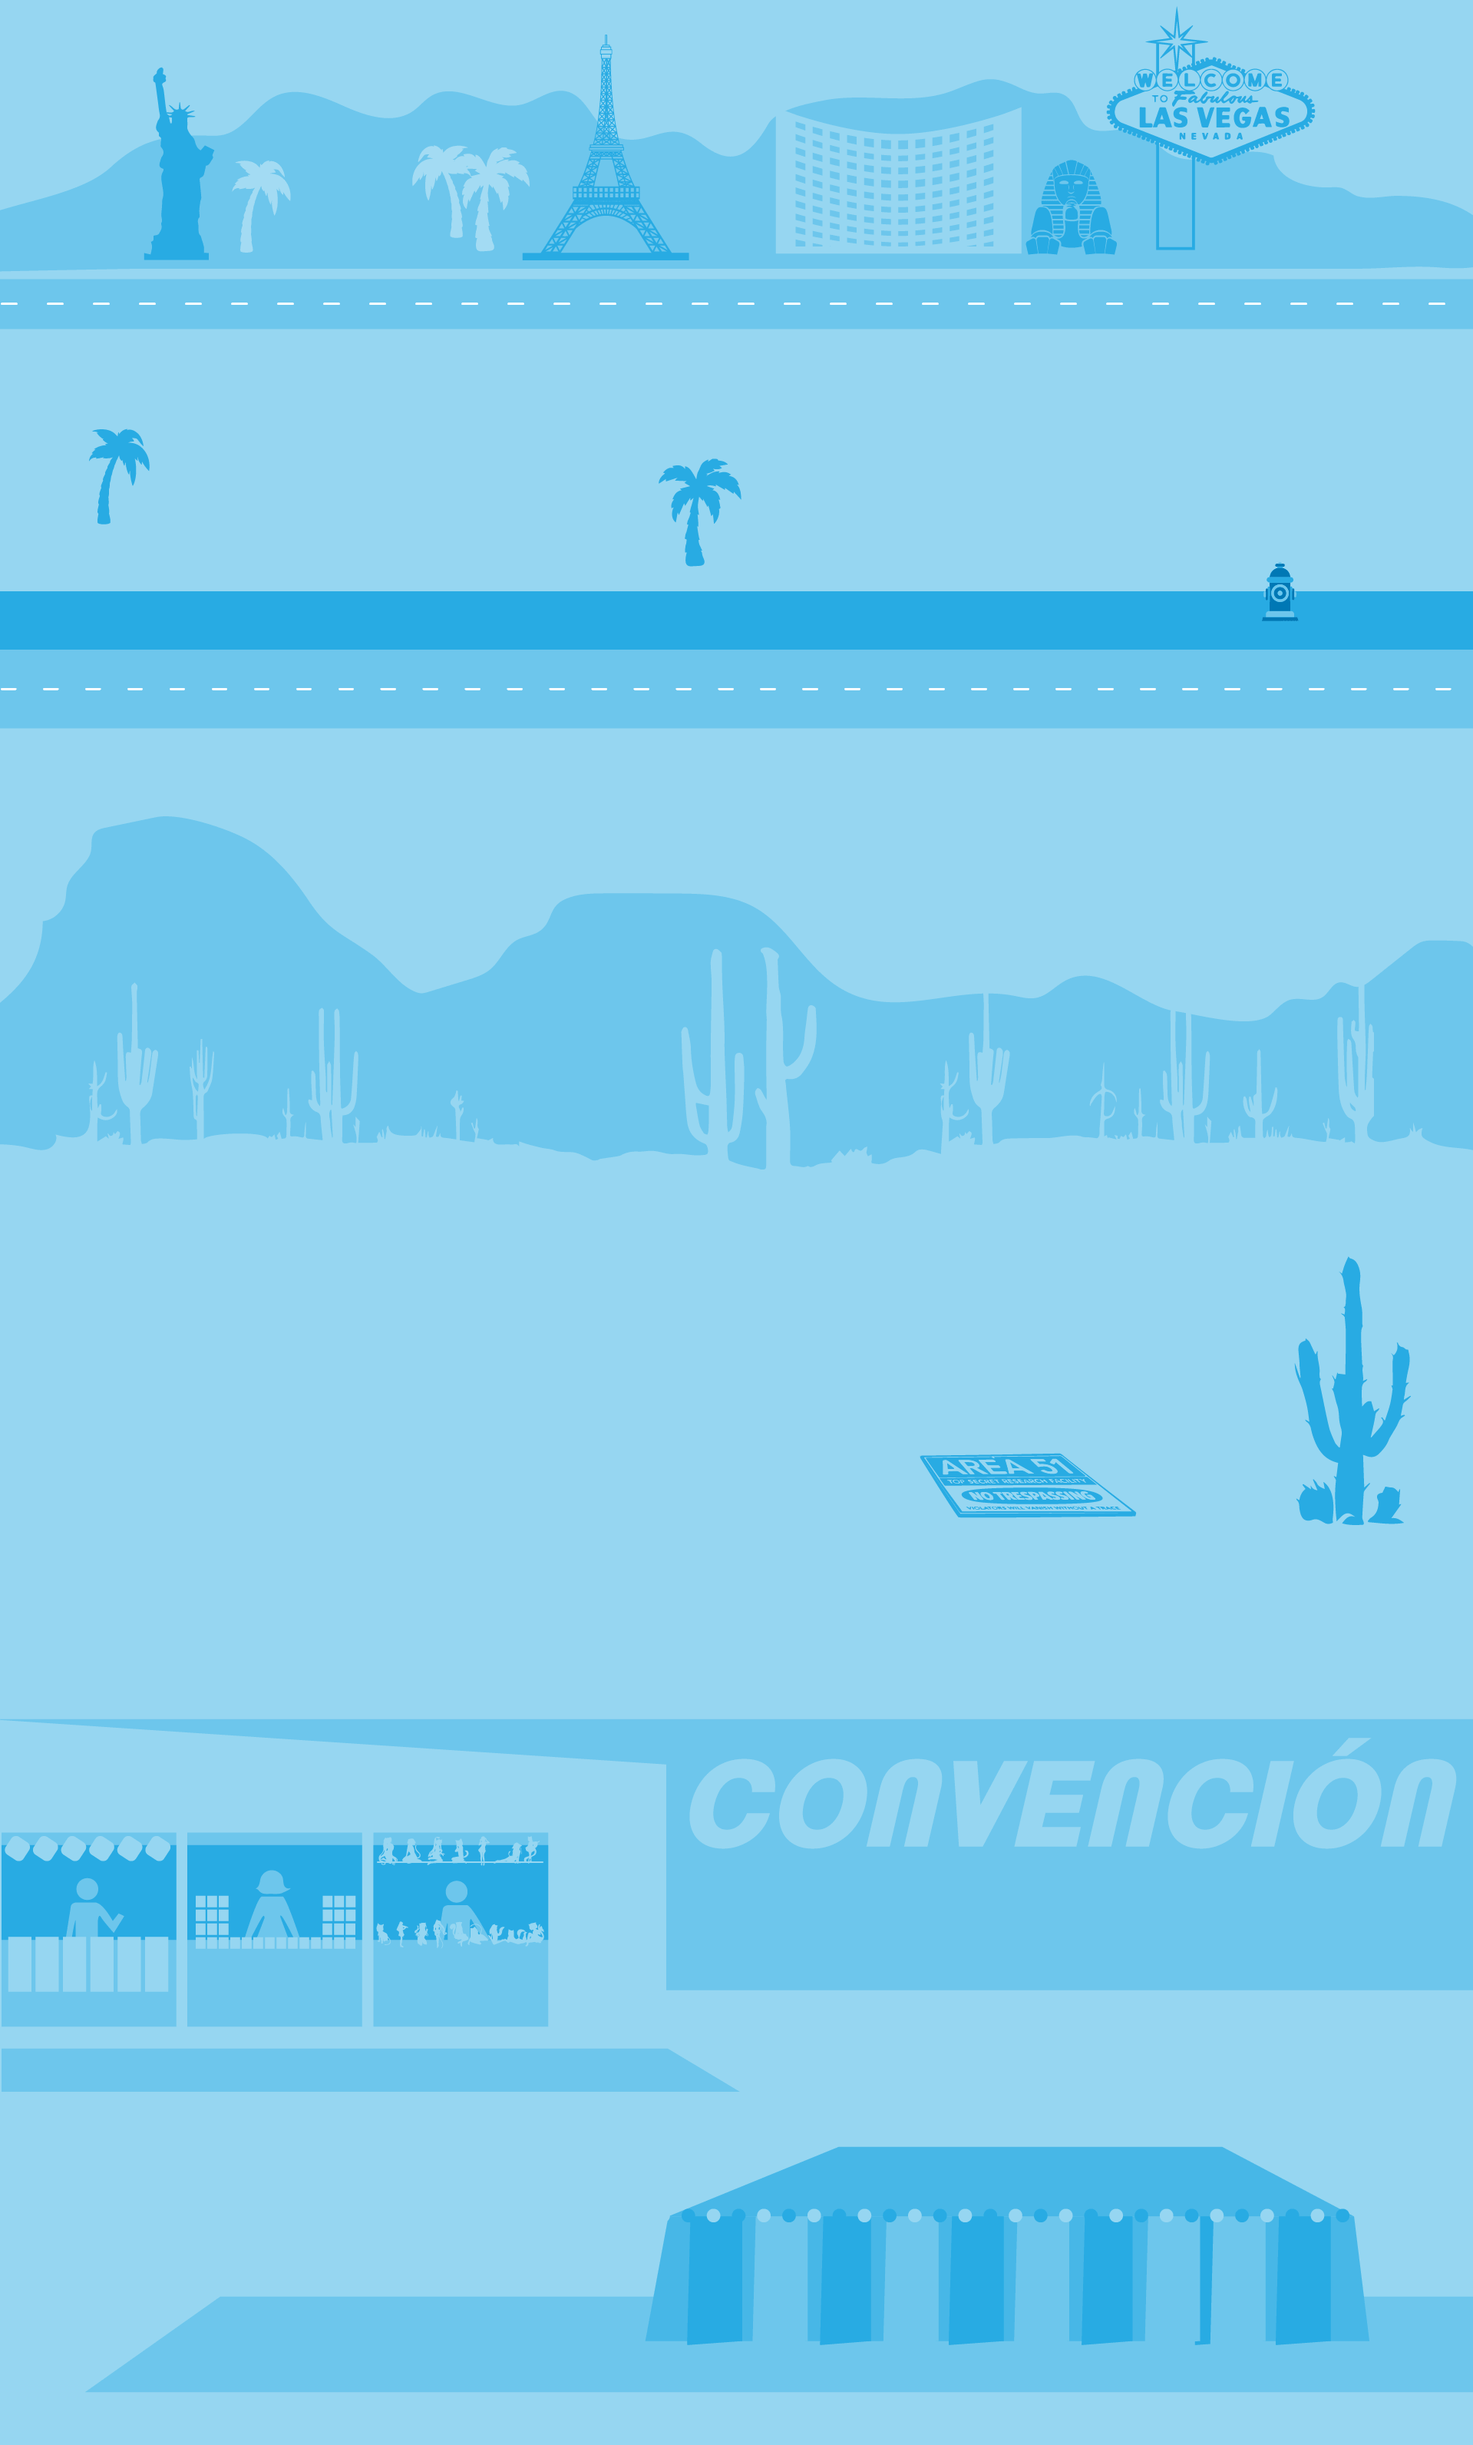
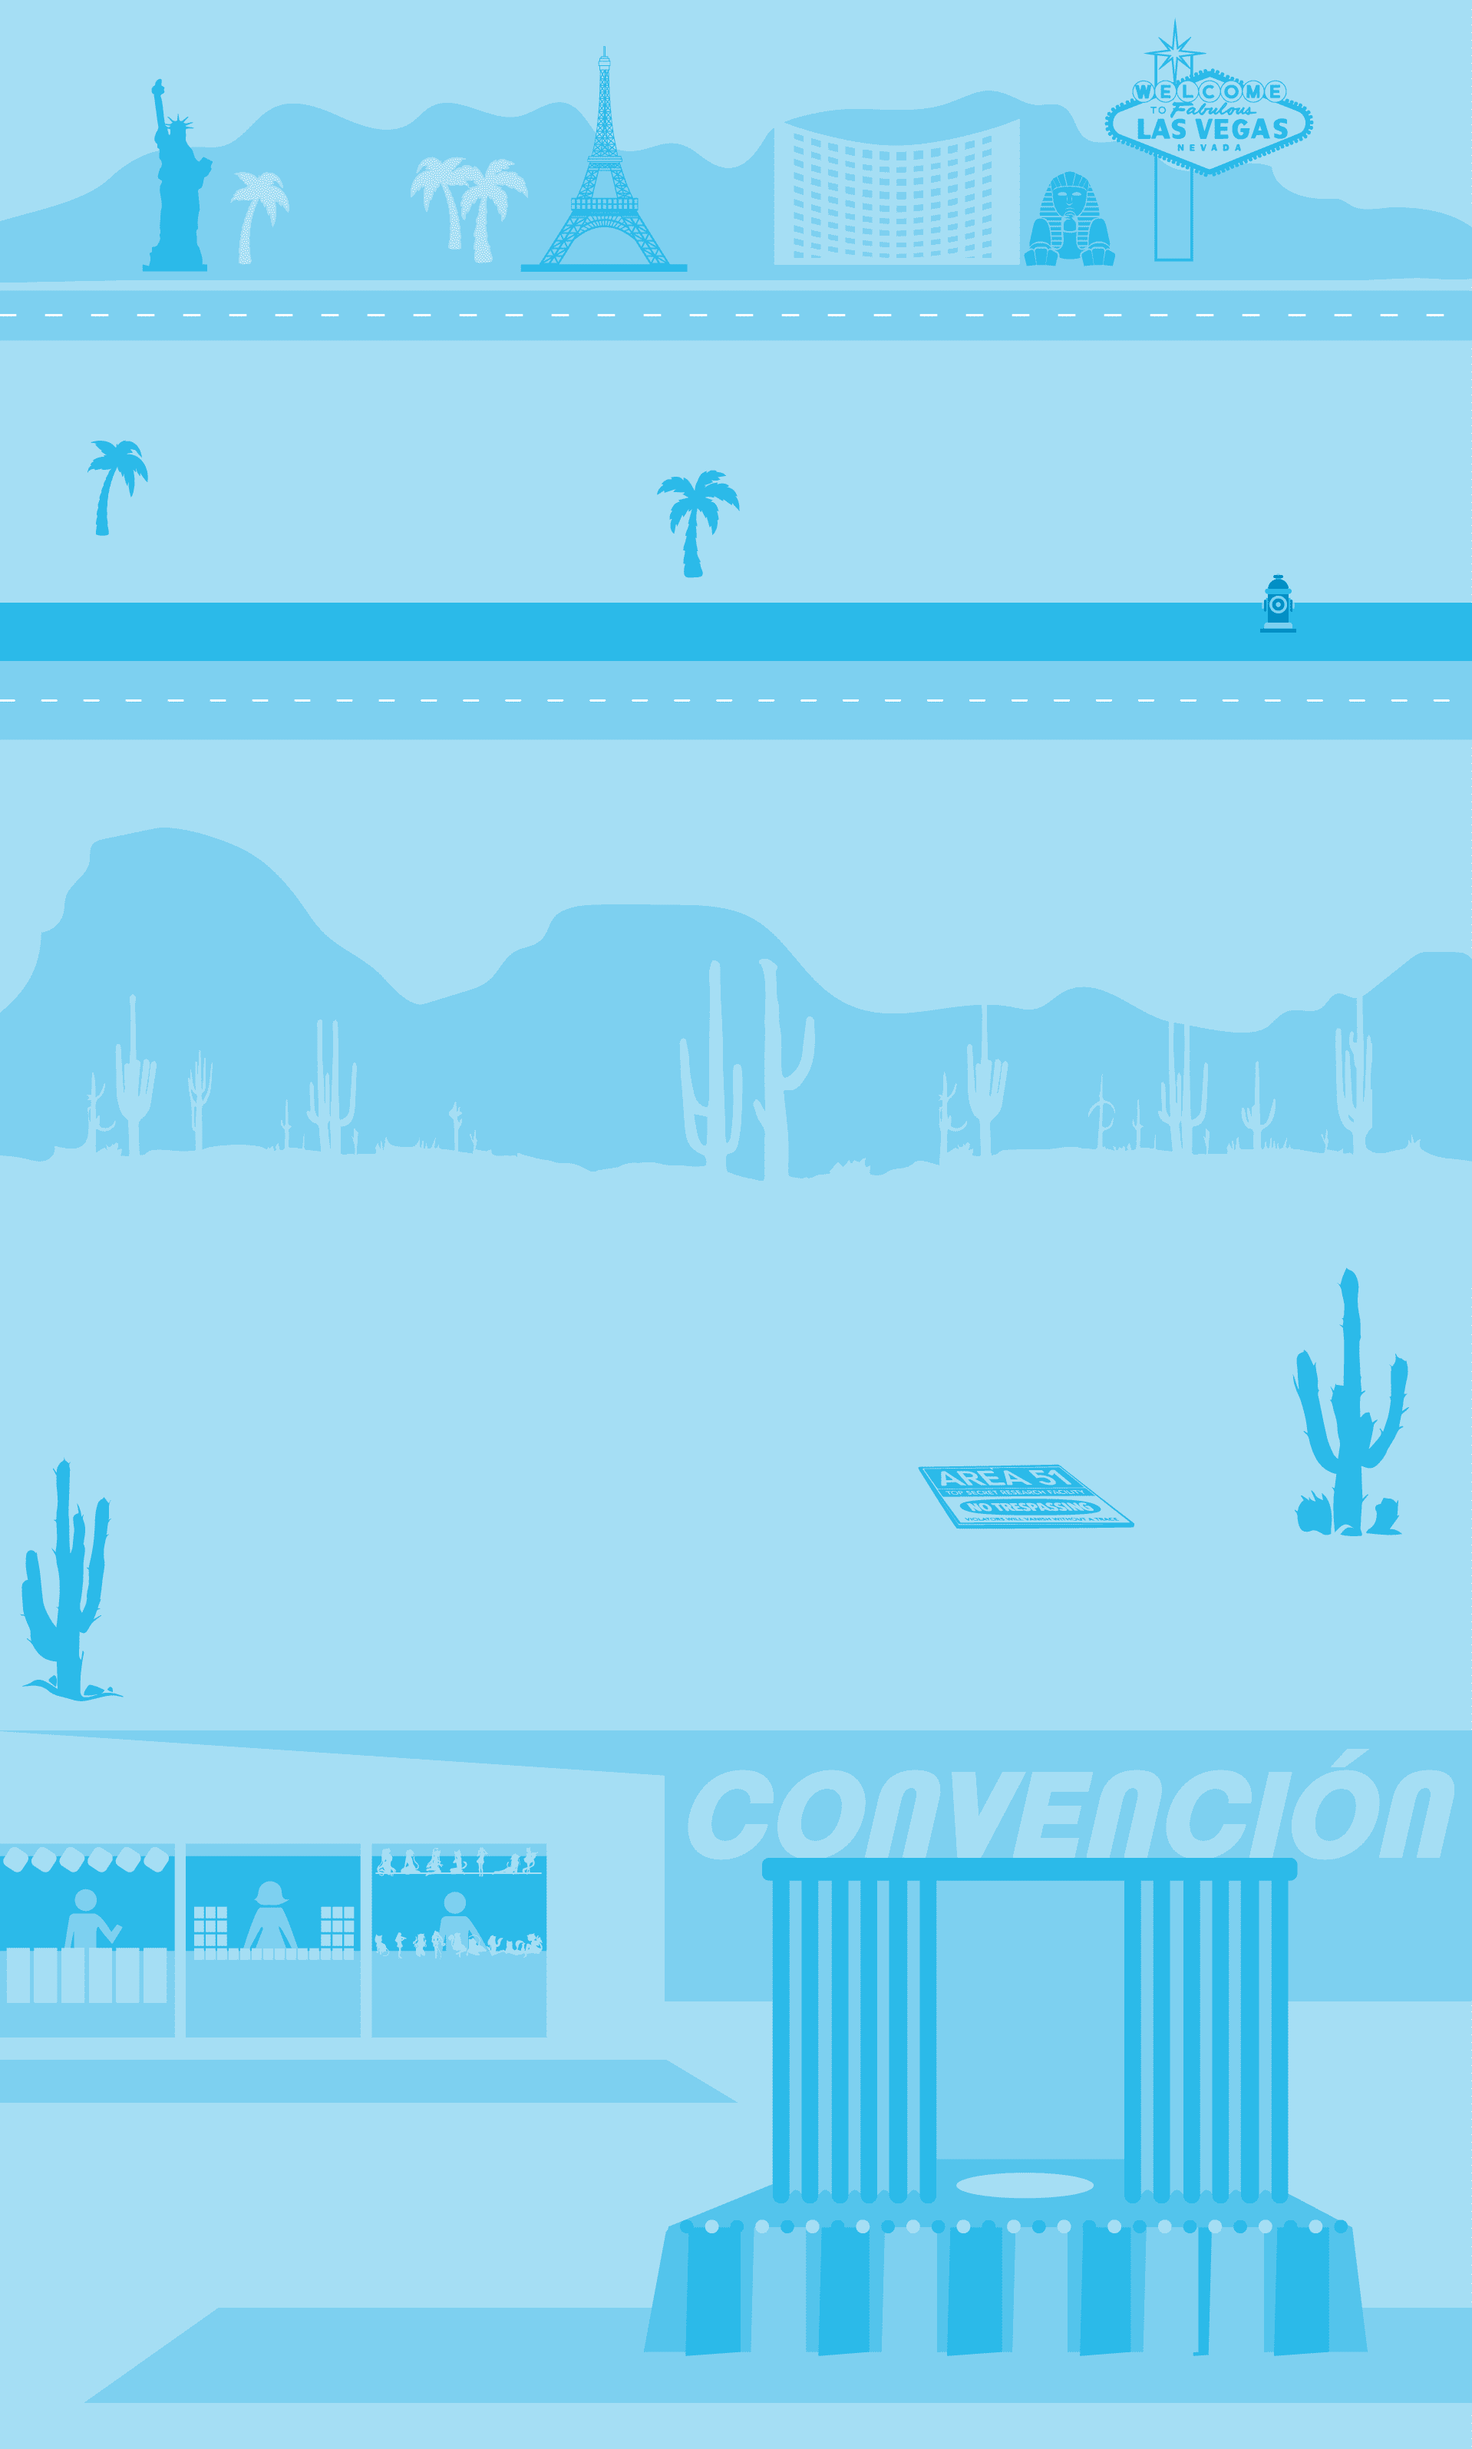
trash gone

diff --git a/index.html b/index.html
@@ -1,29 +1,25 @@
 <!DOCTYPE html>
-<html class="no-js" lang="en">
+<html lang="en">
 <head>
-	<meta charset="utf-8"> 
-	<meta http-equiv="X-UA-Compatible" content="IE=edge,chrome=1">
-	<meta name="viewport" content="width=500" />
-	<meta name="keywords" content="ScrollMagic, example, scrolling, attaching, scrollbar, tween, tweenmax" />
-	<meta name="author"	content="Jan Paepke (www.janpaepke.de)" />
-	<title>Animating with GSAP - Examples - ScrollMagic</title>
-
-	<link href='http://fonts.googleapis.com/css?family=Source+Sans+Pro:300,400,700,400italic|Josefin+Slab:400,700italic' rel='stylesheet' type='text/css'>
+	<meta charset="UTF-8">
+	<meta name="viewport" content="width=device-width, initial-scale=1.0">
+	<title>Document</title>
 	<link rel="stylesheet" href="css/normalize.css" type="text/css">
 	<link rel="stylesheet" href="css/style.css" type="text/css">
 	<link rel="stylesheet" href="css/examples.css" type="text/css">
 	<link rel="shortcut icon" href="img/favicon.ico" type="image/x-icon">
 
-	<script type="text/javascript" src="js/lib/jquery.min.js"></script>	
-	<script type="text/javascript" src="js/lib/greensock/TweenMax.min.js"></script>
-	<script type="text/javascript" src="js/ScrollMagic.js"></script>
-	<script type="text/javascript" src="js/plugins/animation.gsap.min.js"></script>
-	<script type="text/javascript" src="js/plugins/debug.addIndicators.min.js"></script>
-</head>
+	<script src="js/lib/jquery.min.js"></script>	
+	<script src="js/lib/greensock/TweenMax.min.js"></script>
+	<script src="js/ScrollMagic.js"></script>
+	<script src="js/plugins/animation.gsap.min.js"></script>
+	<script src="js/plugins/debug.addIndicators.min.js"></script>
 <style>
 	#inicio, #final {height: 100vh; display: flex; align-items: center;}
 	.scrollContent {background: url('../img/background.png') top center no-repeat;}
-	.scrollContent section { text-align: center;}
+	.scrollContent section { text-align: center; overflow: hidden;}
+	#live {height: 3190px;}
+
 
 @keyframes rotate {
     from{transform: rotate(0deg);}
@@ -35,30 +31,41 @@
     40%{left: -20%;}
 }
 
-#rueda {
-    width:400px; height:400px; position: relative; top:15px; left: calc(50% - 885px);
-    background:url('../img/ferris.svg') no-repeat;
-    animation: rotate 25s linear infinite;
+@keyframes dune {
+	0% {transform:translate(calc(50% - 300px),0px) rotate(-360deg);}
+	10%, 100% {transform:translate(calc(50% + 2000px),0px) rotate(360deg);}
 }
- #tower{width:232px; height:269px; background:url('../img/tower.svg') no-repeat; position: relative; top:480px; left: calc(50% - 800px);}
- #sportcar {width:198px; height:47px; background:url('../img/sportcar.svg') no-repeat; position: relative; top:-346px; left: -100%;
- 	animation: leftToRight 25s linear infinite;
- }
- #carroviejo {width:409.48px; height:102.66px; background: url('../img/carroviejo.svg')no-repeat; position: relative; top:-423px; left: 0px;}
- #pawnshop {width:698.57px; height:471.49px; background: url('../img/pawnshop.png')no-repeat; position: relative; top: -399px; left:calc(50% + 20px);}
 
+#rueda {width:400px; height:400px; position: relative; top:25px; left: calc(50% - 885px); background:url('../img/ferris.svg') no-repeat;
+    animation: rotate 25s linear infinite;}
+#sportcar {width:198px; height:47px; background:url('../img/sportcar.svg') no-repeat; position: relative; top:-305px; left: -100%;
+ 	animation: leftToRight 25s linear infinite;}
+#dune {width:158.96px; height:137.95px; background:url('../img/dune.png') no-repeat; position: relative; top:-230px;
+ 	animation: dune 120s linear infinite;}
+
+#tower{width:232px; height:269px; background:url('../img/tower.svg') no-repeat; position: relative; top:490px; left: calc(50% - 800px);}
+#carroviejo {width:409.48px; height:102.66px; background: url('../img/carroviejo.svg')no-repeat; position: relative; top:-382px; left: 0px;}
+#pawnshop {width:698.57px; height:471.49px; background: url('../img/pawnshop.png')no-repeat; position: relative; top: -360px; left:calc(50% + 20px);}
+#goku {width:160.33px; height:100.59px; position: relative; top:-225px; left:100%; background:url('../img/goku.png') no-repeat; background-size: contain;}
+#ship {width:555.03px; height:297.30px; position: relative; top:145px; left:calc(50% - 605px); background:url('../img/ship.svg') no-repeat;}
+#shipshadow {width:555.03px; height:297.30px; position: relative; top:145px; left:calc(50% - 605px); background:url('../img/shipshadow.svg') no-repeat;}
+#fogR {width:161.22px; height:126.50px; position: relative; top:-195px; left:calc(50% - 50px); background:url('../img/fogR.png') no-repeat;}
+#fogL {width:148.33px; height:91.55px; position: relative; top:-305px; left:calc(50% - 770px); background:url('../img/fogL.png') no-repeat;}
+#alina {width:197.66px; height:341.75px; position: relative; top:165px; left:calc(50% + 282px); background:url('../img/alina.png') no-repeat;}
 </style>
+</head>
 <body>
 	<div id="content-wrapper">
 		<section id="inicio">
-			<div>Pagina inicial</div>
+			<h2>Pagina inicial</h2>
 		</section>
 		<div class="scrollContent">
 			<script>
 				// init controller
 				var controller = new ScrollMagic.Controller();
 			</script>
-			<section id="vegas">
+			<section id="live">
+				<h3>Invitados Internacionales</h3>
 				<div id="ferris">
 					<div id="tower"></div>
 					<div id="rueda"></div>
@@ -67,19 +74,44 @@
 				<div id="pawnshop"></div>
 				<div id="carroviejo"></div>
 				<div id="goku"></div>
+				<div id="freezer"></div>
 				<div id="ship"></div>
 				<div id="shipshadow"></div>
 				<div id="fogR"></div>
 				<div id="fogL"></div>
 				<div id="dune"></div>
-				<style>
-					#pin {display: block; background: #000; color: #FFF; width: 150px; text-align: center; margin: auto;}
-				</style>
+				<div id="alina"></div>
 				<script>
-					var scene = new ScrollMagic.Scene({triggerElement: "#carroviejo", duration: 100})
-					.setTween("#carroviejo", 0.5, {translate: 200px}) // trigger a TweenMax.to tween
-					.addIndicators({name: "2 (duration: 500)"}) // add indicators (requires plugin)
+					var scene = new ScrollMagic.Scene({triggerElement: "#pawnshop", duration: 1200})
+					.setTween("#carroviejo", 1, {left:'100%'})
 					.addTo(controller);
+
+					var scene = new ScrollMagic.Scene({triggerElement: "#goku", duration: 1200})
+					.setTween("#goku", 1, {left:'0%', width:'10px'})
+					.addTo(controller);
+
+					var scene = new ScrollMagic.Scene({triggerElement: "#freezer", duration: 250})
+					.setTween(TweenMax.fromTo("#ship", 1, {top: "0px", opacity: 0}, {top: "145px", opacity: 1} ))
+					.addTo(controller);
+
+					var scene = new ScrollMagic.Scene({triggerElement: "#freezer", duration: 250})
+					.setTween(TweenMax.fromTo("#shipshadow", 1, {opacity: 0.2}, {opacity: 1, delay: 20} ))
+					.addTo(controller);
+
+					var freezer = new TimelineMax({repeat: 1, yoyo: false})
+                    .add(TweenMax.fromTo(["#fogR", "#fogL" ], 1, {opacity: 0}, {opacity: 0.5, delay: 30}))
+                    .add(TweenMax.fromTo(["#fogR", "#fogL" ], 1, {opacity: 1}, {opacity: 0, delay:10}))
+
+					var scene = new ScrollMagic.Scene({triggerElement: "#freezer", duration: 400})
+					.setTween(freezer)
+					.addIndicators({name: "fog (duration: 400)"}) // add indicators (requires plugin)
+					.addTo(controller);
+
+					var scene = new ScrollMagic.Scene({triggerElement: "#alina", duration: 200})
+					.setTween(TweenMax.fromTo("#alina", 1, {opacity: 0}, {opacity: 1} ))
+					.addIndicators({name: "alina (duration: 200)"}) // add indicators (requires plugin)
+					.addTo(controller);
+
 
 				</script>					
 			</section>						
